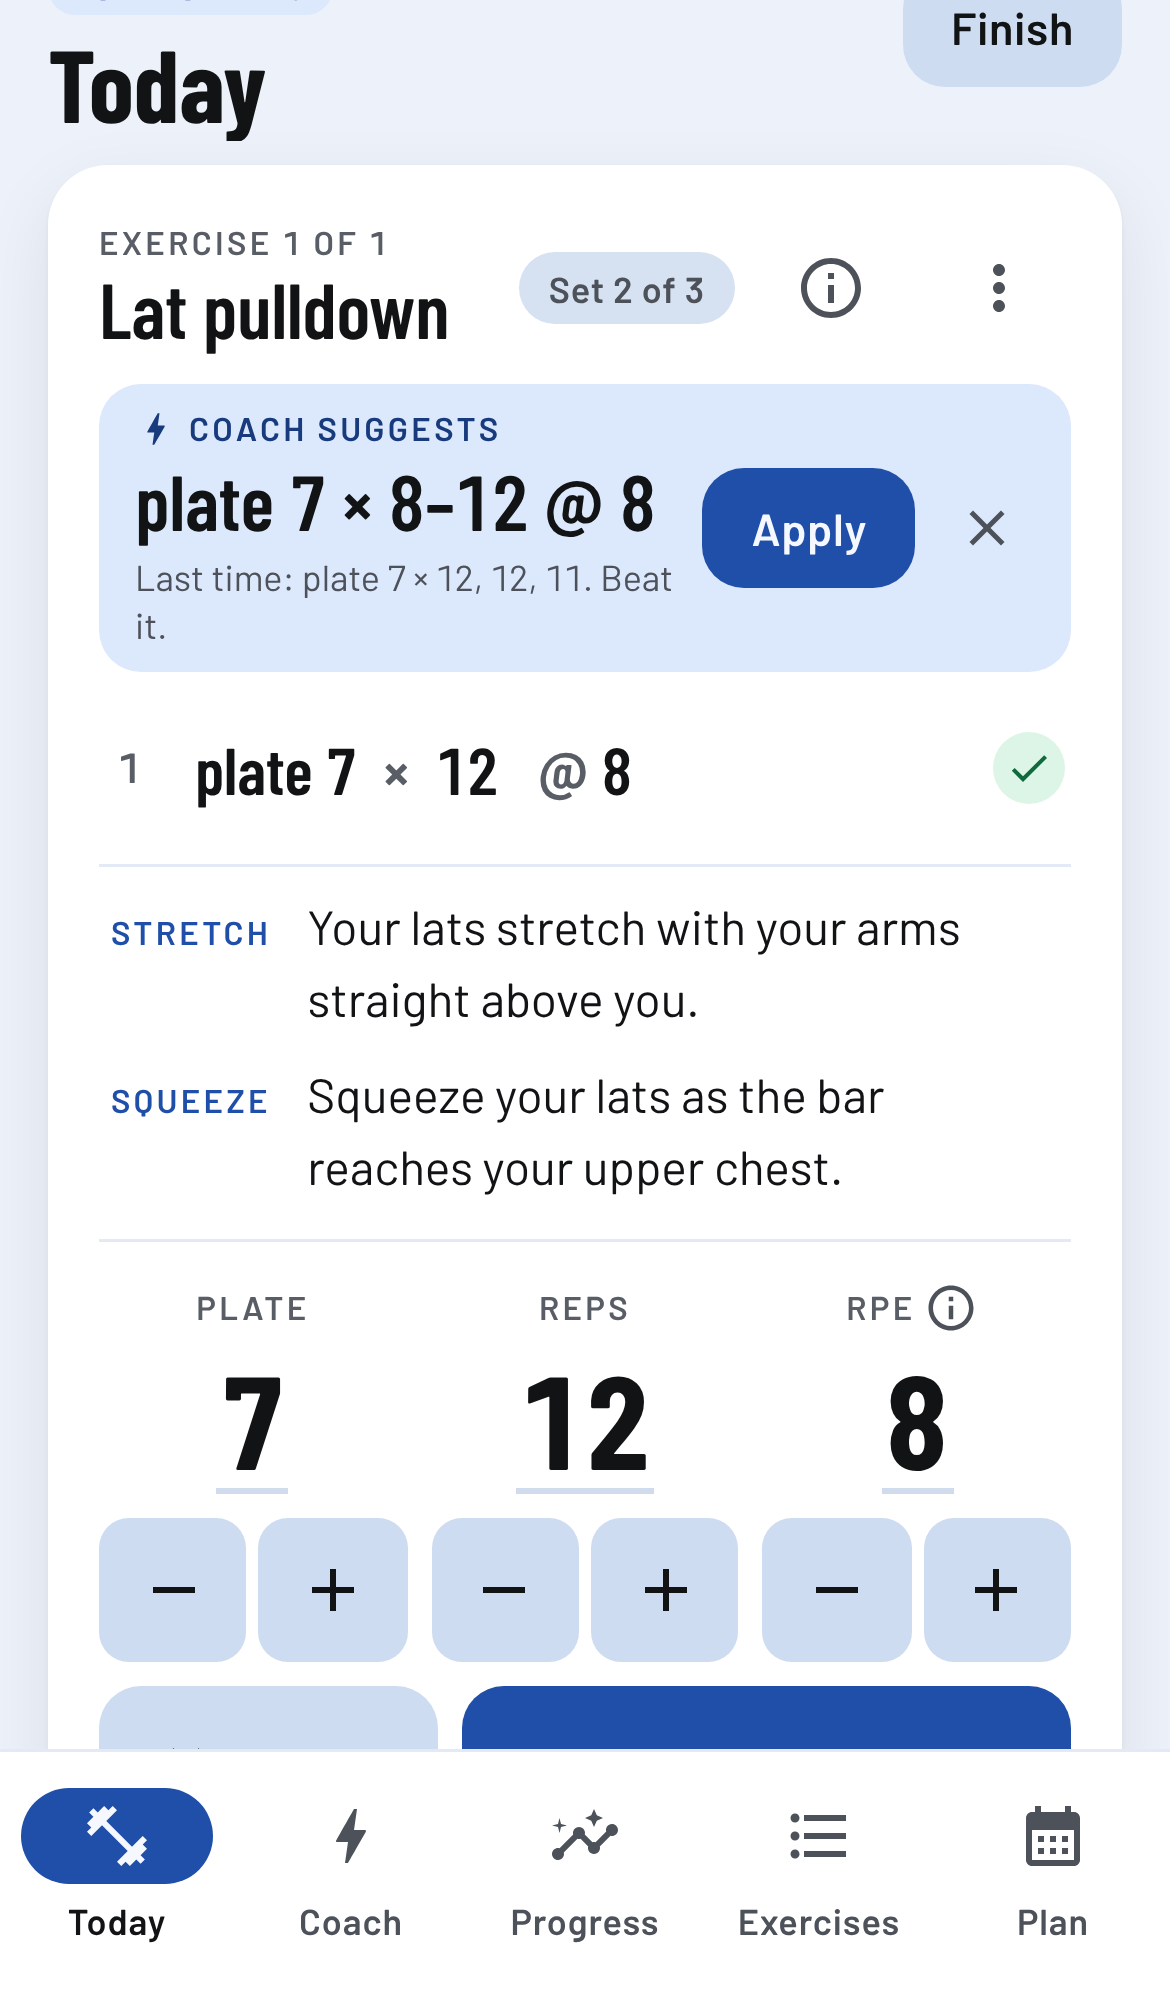
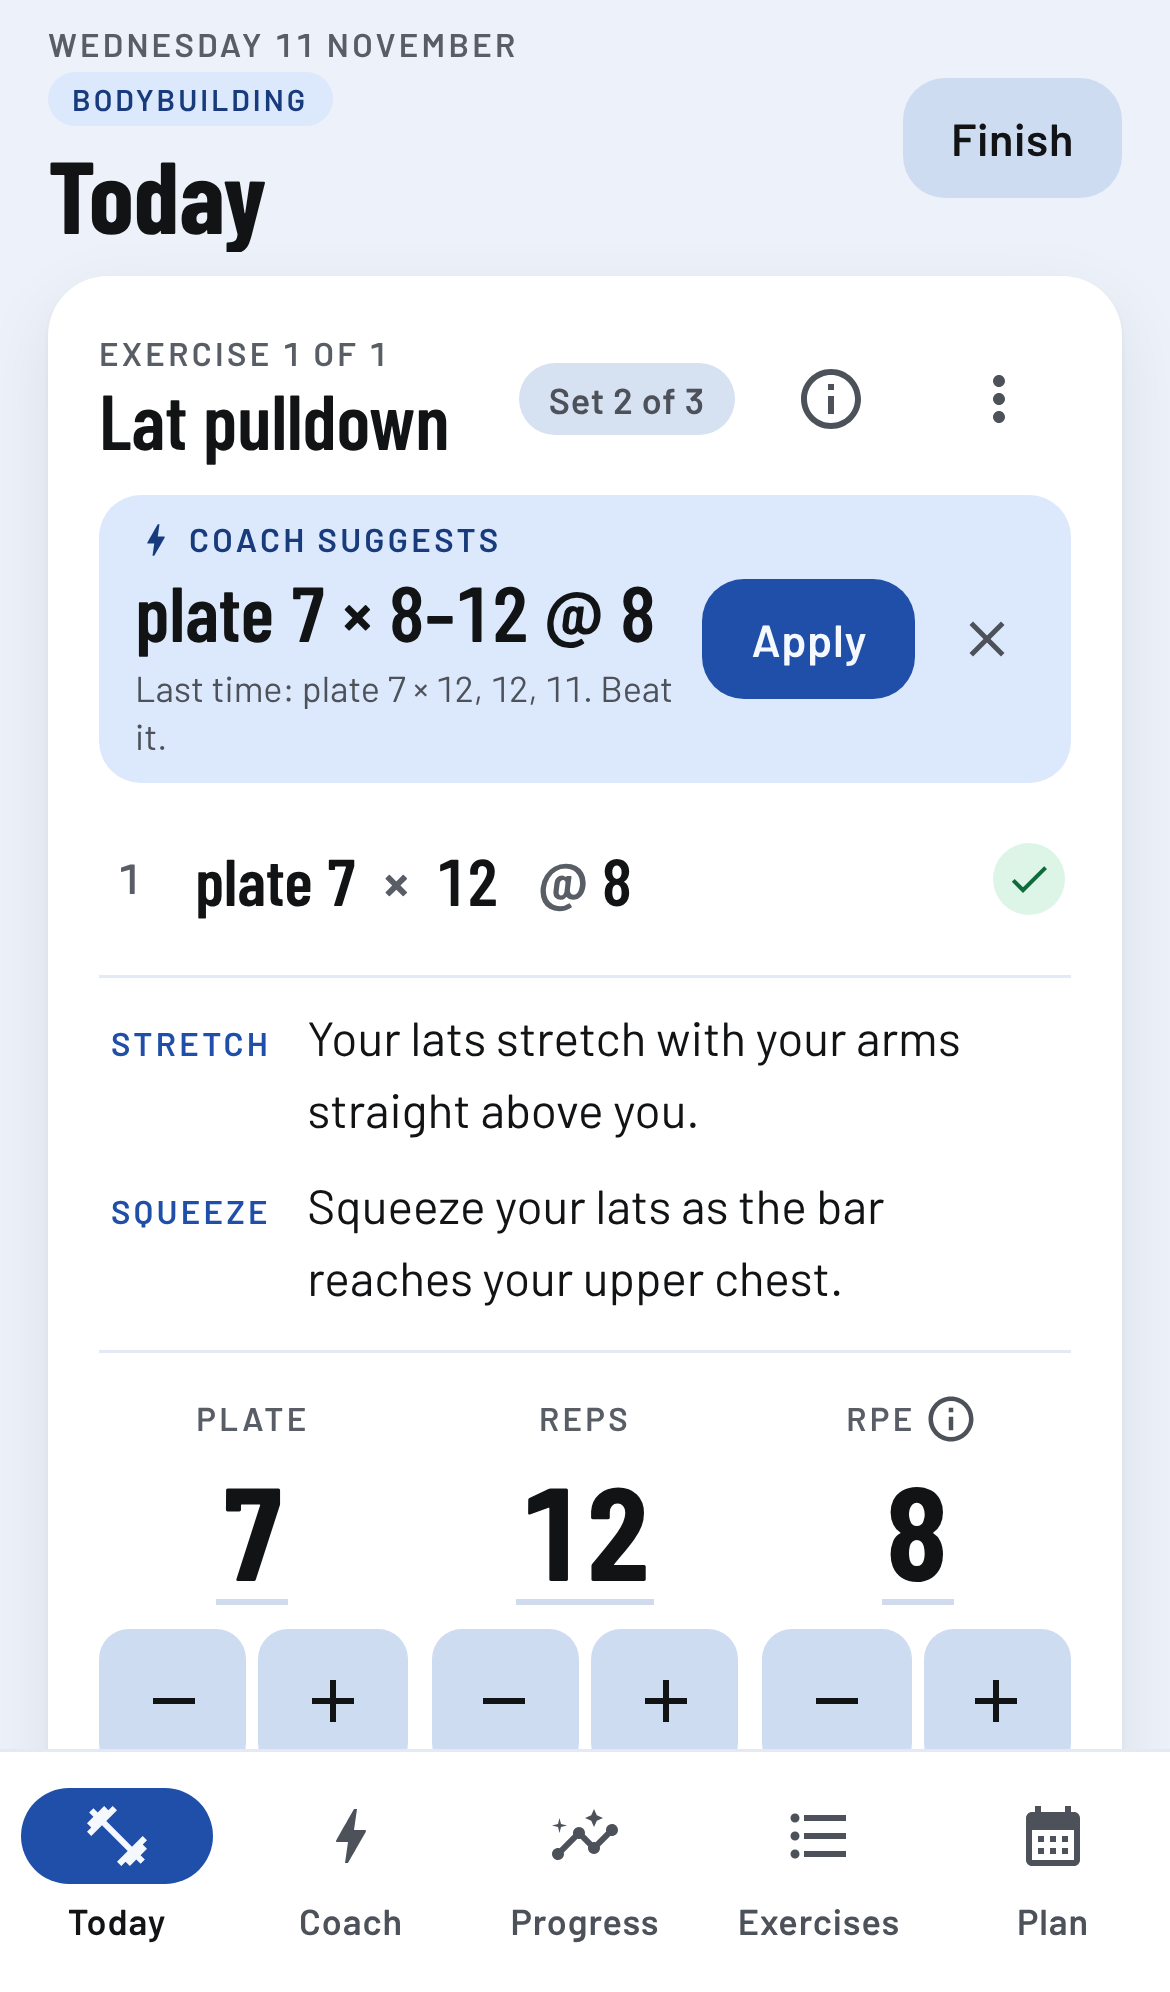
test(web): the plate shots wait for the screen to stand still
The bodybuilding card is taller than the phone, and whether its scroll
into view moves the screen depends on when it fires against the chip
coming in, so one run drew Today from the top and the next 111 px down.
The shots now wait until the screen has stood still for half a second,
and the Today shots then draw it from its top. Three runs give the same
bytes; the bodybuilding light shot is retaken.

Claude-Session: https://claude.ai/code/session_01KboHw6FdBYrNDSMx1QWyzy

diff --git a/web/e2e/plates.spec.ts b/web/e2e/plates.spec.ts
@@ -10,9 +10,28 @@ const grit = GritDomain.getInstance()
 // test-results/screens/; UPDATE_SCREENSHOTS=1 rewrites the committed PNGs in docs/design/web/screens/.
 const outDir = resolve(process.cwd(), process.env.UPDATE_SCREENSHOTS === '1' ? '../docs/design/web/screens' : 'test-results/screens')
 
+/**
+ * Today scrolls the open card into view with a smooth scroll that can start a moment after the card shows: waits until
+ * the screen has stood still for half a second, never part way through (or before it starts).
+ */
+async function stillScreen(page: Page) {
+  await expect
+    .poll(() =>
+      page.locator('.shell-main').evaluate(
+        (el) =>
+          new Promise<boolean>((done) => {
+            const before = el.scrollTop
+            setTimeout(() => done(el.scrollTop === before), 500)
+          }),
+      ),
+    )
+    .toBe(true)
+}
+
 async function shoot(page: Page, name: string) {
   mkdirSync(outDir, { recursive: true })
   await page.evaluate(() => document.fonts.ready)
+  await stillScreen(page)
   await page.screenshot({ path: resolve(outDir, `${name}.png`), animations: 'disabled' })
 }
 
@@ -240,7 +259,11 @@ for (const scheme of ['dark', 'light'] as const) {
         await expect(page.getByText(side === 'BODYBUILDING' ? 'plate 7 × 8–12 @ 8' : /^plate 7 × \d+ @ 8$/)).toBeVisible()
         await expect(plateField(page)).toHaveValue('7')
         await expect(page.locator('.gr-set-line').first()).toContainText('plate 7')
-        await shoot(page, `today-plates-${side.toLowerCase()}-${scheme}`)
+        // Whether the open card's scroll into view moves the screen depends on when it fires against the chip coming in
+        // (the bodybuilding card is taller than the phone): let it finish, then draw the screen from its top, every time.
+        await stillScreen(page)
+        await page.locator('.shell-main').evaluate((el) => el.scrollTo({ top: 0, behavior: 'instant' }))
+        await shoot(page,`today-plates-${side.toLowerCase()}-${scheme}`)
       })
     }
 
